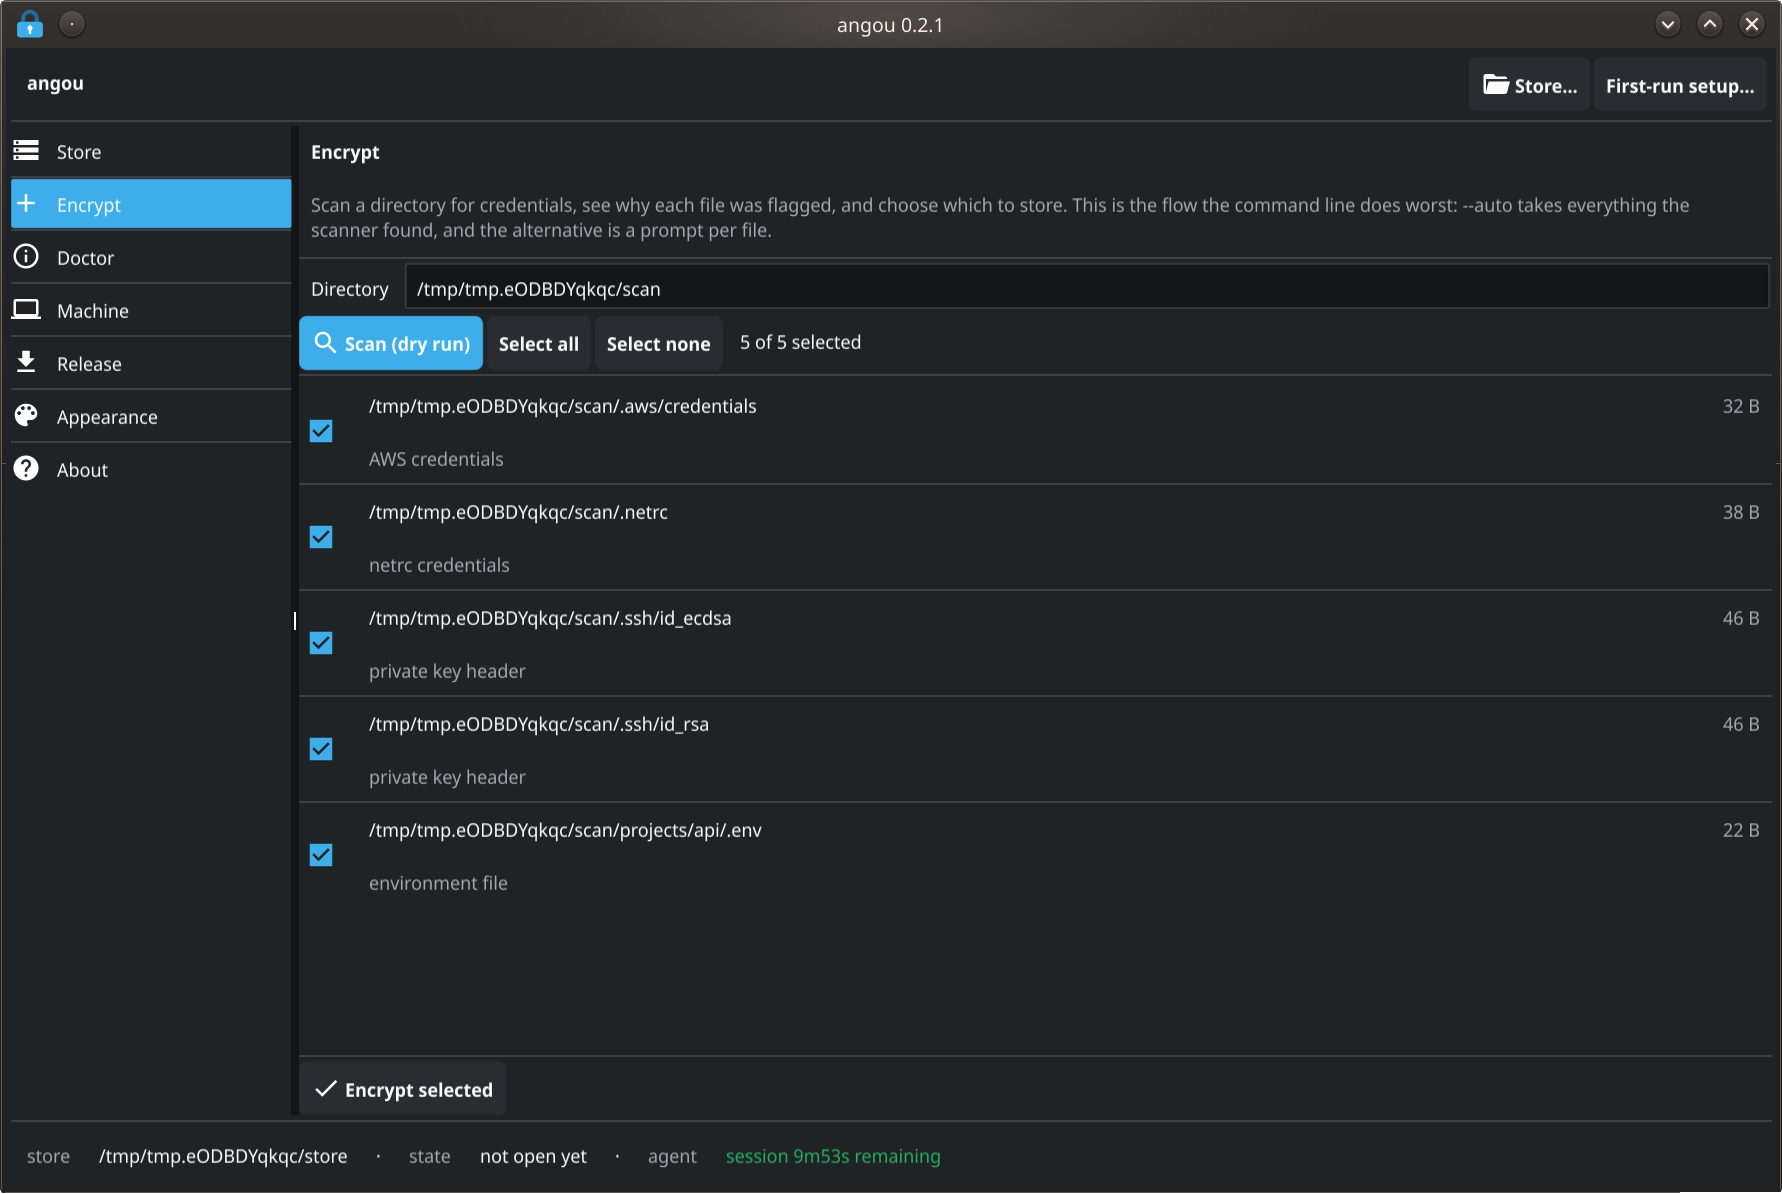
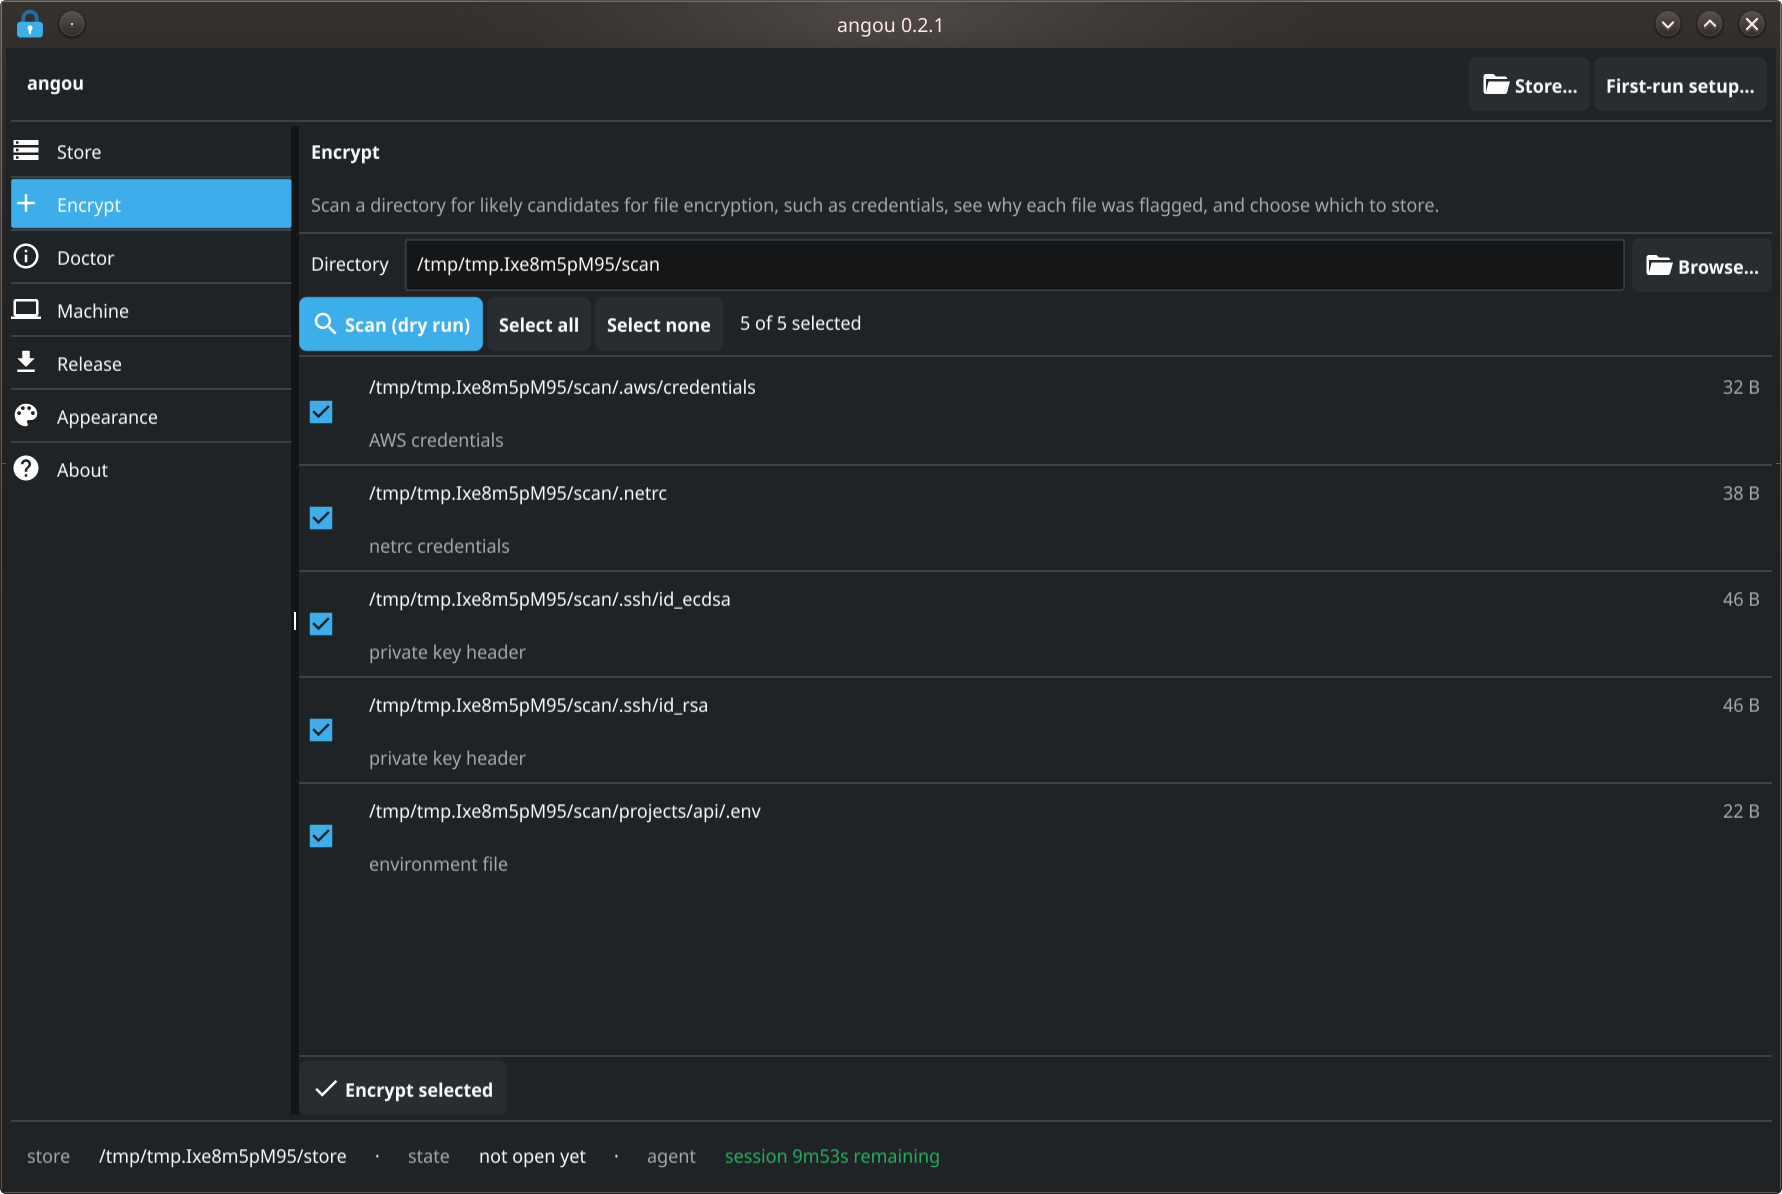
feat(gui): put a file chooser beside every path field
Every path in the window was typed by hand. Each field that takes one --
the scan directory, the file to encrypt, an extraction destination, a
clone destination, the store directory -- now has a Browse button that
opens Fyne's chooser at the path already in the field, or its parent, or
the home directory. The field stays editable: that is still the only way
to reach somewhere the chooser will not show.

Resize is called after Show, not before. Before Show the dialog has no
window, and in fyne 2.8.1 Resize asks it for a minimum size and
dereferences that nil window -- so the first version of this button
crashed the process on the one interaction it exists for. The regression
test drives the real widget under the test driver and was confirmed to
fail against the old ordering.

No operation is added: directory encryption remains the scan, and the
folder chooser only feeds it, so the two front ends stay level.

The Encrypt heading no longer explains what the command line does badly,
and the screenshots are recaptured for both changes.

diff --git a/internal/gui/dialogs.go b/internal/gui/dialogs.go
@@ -3,12 +3,15 @@ package gui
 import (
 	"fmt"
 	"os"
+	"path/filepath"
 
 	"fyne.io/fyne/v2"
 	"fyne.io/fyne/v2/canvas"
 	"fyne.io/fyne/v2/container"
 	"fyne.io/fyne/v2/dialog"
 	"fyne.io/fyne/v2/layout"
+	"fyne.io/fyne/v2/storage"
+	"fyne.io/fyne/v2/theme"
 	"fyne.io/fyne/v2/widget"
 
 	angoucontainer "github.com/ushineko/angou/internal/container"
@@ -256,7 +259,7 @@ func (u *ui) extractDialog(e StoreEntry) {
 	note.Importance = widget.LowImportance
 
 	u.pathDialog("Extract "+e.LogicalPath, "Extract",
-		container.NewVBox(widget.NewForm(widget.NewFormItem("Destination", dest)), note),
+		container.NewVBox(widget.NewForm(widget.NewFormItem("Destination", u.withBrowse(dest, true))), note),
 		func() {
 			u.withSession("Extract", func(s *core.Session) error {
 				written, err := s.Extract(e.LogicalPath, dest.Text)
@@ -305,7 +308,7 @@ func (u *ui) encryptFileDialog() {
 	binary := widget.NewCheck("Store raw OpenPGP packets instead of ASCII armor", nil)
 
 	u.pathDialog("Encrypt a file", "Encrypt", container.NewVBox(widget.NewForm(
-		widget.NewFormItem("File", src),
+		widget.NewFormItem("File", u.withBrowse(src, false)),
 		widget.NewFormItem("Store as", as),
 	), binary), func() {
 		u.withSession("Encrypt", func(s *core.Session) error {
@@ -326,7 +329,7 @@ func (u *ui) cloneDialog() {
 	noBinaries := widget.NewCheck("Leave the platform binaries behind", nil)
 
 	u.pathDialog("Clone the store", "Clone", container.NewVBox(
-		widget.NewForm(widget.NewFormItem("Destination", to)), noBinaries), func() {
+		widget.NewForm(widget.NewFormItem("Destination", u.withBrowse(to, true))), noBinaries), func() {
 		from := u.storeDir()
 		go func() {
 			done := u.busy("Copying the store…")
@@ -395,7 +398,7 @@ func (u *ui) chooseStore() {
 	}
 
 	u.pathDialog("Choose a store", "Use this store",
-		container.NewVBox(widget.NewForm(widget.NewFormItem("Directory", dir)), note, env),
+		container.NewVBox(widget.NewForm(widget.NewFormItem("Directory", u.withBrowse(dir, true))), note, env),
 		func() {
 			if !core.StoreExists(dir.Text) {
 				u.flash(dir.Text+" does not hold a store. Use first-run setup to create one.", StatusBad)
@@ -404,4 +407,75 @@ func (u *ui) chooseStore() {
 			u.setStoreDir(dir.Text)
 			u.flash("Now using the store at "+dir.Text, StatusGood)
 		})
+}
+
+// --- file chooser ----------------------------------------------------------
+
+// pickerStart is where a chooser should open: the path already in the field if
+// it names a directory, otherwise its parent, otherwise the home directory.
+// A field left empty, or holding something that no longer exists, must not
+// leave the chooser at whatever directory the process happens to be in.
+func pickerStart(text string) fyne.ListableURI {
+	candidates := []string{}
+	if p := core.ExpandPath(text); p != "" {
+		candidates = append(candidates, p, filepath.Dir(p))
+	}
+	if home, err := os.UserHomeDir(); err == nil {
+		candidates = append(candidates, home)
+	}
+	for _, c := range candidates {
+		if fi, err := os.Stat(c); err != nil || !fi.IsDir() {
+			continue
+		}
+		if lu, err := storage.ListerForURI(storage.NewFileURI(c)); err == nil {
+			return lu
+		}
+	}
+	return nil
+}
+
+// browseButton is the affordance beside a path field: it opens the platform
+// chooser and writes the chosen path back into the field. The field stays
+// editable — a path can still be typed or pasted, which is the only way to
+// reach somewhere the chooser will not show.
+//
+// `dir` picks a directory chooser rather than a file one.
+func (u *ui) browseButton(field *widget.Entry, dir bool) *widget.Button {
+	choose := func() {
+		if dir {
+			d := dialog.NewFolderOpen(func(lu fyne.ListableURI, err error) {
+				if err != nil || lu == nil {
+					return
+				}
+				field.SetText(lu.Path())
+			}, u.win)
+			d.SetLocation(pickerStart(field.Text))
+			// Resize only after Show. Before Show the dialog has no window,
+			// and Resize asks it for its minimum size — which in fyne 2.8.1
+			// dereferences that nil window and takes the process with it.
+			d.Show()
+			d.Resize(fyne.NewSize(760, 520))
+			return
+		}
+		d := dialog.NewFileOpen(func(rc fyne.URIReadCloser, err error) {
+			if err != nil || rc == nil {
+				return
+			}
+			// The chooser hands back an open handle; angou reads the file
+			// itself, by path, so close it immediately rather than holding a
+			// descriptor open for the life of the dialog.
+			path := rc.URI().Path()
+			_ = rc.Close()
+			field.SetText(path)
+		}, u.win)
+		d.SetLocation(pickerStart(field.Text))
+		d.Show()
+		d.Resize(fyne.NewSize(760, 520))
+	}
+	return widget.NewButtonWithIcon("Browse…", theme.FolderOpenIcon(), choose)
+}
+
+// withBrowse lays a path field out with its chooser button on the right.
+func (u *ui) withBrowse(field *widget.Entry, dir bool) fyne.CanvasObject {
+	return container.NewBorder(nil, nil, nil, u.browseButton(field, dir), field)
 }

diff --git a/internal/gui/browse_test.go b/internal/gui/browse_test.go
@@ -1,0 +1,39 @@
+package gui
+
+import (
+	"testing"
+
+	"fyne.io/fyne/v2/test"
+	"fyne.io/fyne/v2/widget"
+	"github.com/stretchr/testify/require"
+)
+
+// Tapping Browse… must open a chooser, not take the process with it.
+//
+// The first version of this button sized the dialog before showing it. In fyne
+// 2.8.1 that path asks a dialog with no window yet for its minimum size and
+// dereferences nil, so the crash was in the one interaction the button exists
+// for. This drives the real widget under the test driver, which needs no
+// display, so the regression cannot come back unnoticed.
+func TestBrowseButtonOpensAChooser(t *testing.T) {
+	app := test.NewApp()
+	defer app.Quit()
+
+	u := &ui{win: test.NewWindow(widget.NewLabel(""))}
+	defer u.win.Close()
+
+	for _, dir := range []bool{false, true} {
+		field := widget.NewEntry()
+		button := u.browseButton(field, dir)
+		require.NotPanics(t, func() { test.Tap(button) }, "directory chooser: %v", dir)
+	}
+}
+
+// A field holding a path that does not exist, or nothing at all, must still
+// give the chooser somewhere to start rather than leaving it wherever the
+// process happens to be.
+func TestPickerStartFallsBackToHome(t *testing.T) {
+	for _, text := range []string{"", "/nonexistent/path/for/a/test", "~"} {
+		require.NotNil(t, pickerStart(text), "no starting location for %q", text)
+	}
+}

diff --git a/internal/gui/views.go b/internal/gui/views.go
@@ -367,11 +367,10 @@ func (u *ui) buildEncrypt() fyne.CanvasObject {
 
 	top := container.NewVBox(
 		heading("Encrypt",
-			"Scan a directory for credentials, see why each file was flagged, and choose which to store. "+
-				"This is the flow the command line does worst: --auto takes everything the scanner found, "+
-				"and the alternative is a prompt per file."),
+			"Scan a directory for likely candidates for file encryption, such as credentials, "+
+				"see why each file was flagged, and choose which to store."),
 		container.NewBorder(nil, nil, widget.NewLabel("Directory"),
-			nil, dir),
+			nil, u.withBrowse(dir, true)),
 		container.NewHBox(scan, all, none, count),
 		widget.NewSeparator(),
 	)

diff --git a/validation-reports/2026-09-04-v0.2.2.md b/validation-reports/2026-09-04-v0.2.2.md
@@ -1,0 +1,94 @@
+# Validation report — angou v0.2.2
+
+**Date**: 2026-09-04
+**Spec**: [002](../specs/002-desktop-gui.md)
+**Scope**: a file chooser beside the GUI's path fields, the crash that shipped in the
+first version of it, and one heading reworded. No CLI, container format, key model, or
+store layout change.
+
+---
+
+## Summary
+
+Every path in the GUI was typed by hand: the directory to scan, the file to encrypt,
+where to extract, where to clone, which store to open. Each of those fields now carries a
+Browse button that opens Fyne's chooser, starting at whatever the field already holds, or
+its parent, or the home directory. The field stays editable, so a path the chooser will
+not show can still be typed or pasted.
+
+The first version of the button crashed the process. `dialog.FileDialog.Resize` was
+called before `Show`, and in Fyne 2.8.1 that path asks a dialog with no window yet for
+its minimum size and dereferences nil — so the one interaction the button exists for took
+the window down with it. It is fixed by showing first and resizing after, and pinned by a
+test that drives the real widget under Fyne's test driver.
+
+This adds no operation. Directory encryption is still the scan (`enc --all` on the
+command line, the Encrypt section in the window), which flags credential-shaped files
+rather than taking a tree wholesale; the folder chooser feeds that scan and does not
+change what it does. CLI/GUI parity is therefore unaffected.
+
+---
+
+## Phase 3 — Tests
+
+| Gate | Result |
+|---|---|
+| `make test` (unit, `-race`) | pass |
+| `make e2e` | pass |
+| `make lint` (`golangci-lint` v2.12.2) | 0 issues |
+| `gofmt` | clean |
+
+New coverage in `internal/gui/browse_test.go`: tapping Browse opens a chooser without
+panicking, for both the file and the directory variant, and `pickerStart` returns a
+starting location for an empty field, a path that does not exist, and a bare `~`. The
+first test was confirmed to fail against the pre-fix ordering before the fix was kept —
+a regression test that has never been seen to fail is a claim, not a check.
+
+Not run: `make e2e-container` (unchanged bootstrap path), `tools/regress.sh` (no CLI
+output changed).
+
+---
+
+## Phase 4 — Code quality
+
+The five call sites share one helper rather than each assembling an entry and a button:
+`withBrowse` lays the pair out, `browseButton` opens the chooser, `pickerStart` decides
+where it opens. No duplication introduced, nothing dead left behind.
+
+---
+
+## Phase 5 — Security review
+
+**Verdict**: PASS
+
+- **Dependency scan**: `govulncheck` (Go 1.25.12) — code affected by 0 vulnerabilities.
+  No dependency moved in this release.
+- **Untrusted input**: a chosen path is untrusted in exactly the way a typed one is, and
+  goes through the same core calls, which expand a leading `~`, refuse to create anything
+  under a bare-tilde component, and confine extraction beneath its destination. The
+  chooser adds no path that bypasses those.
+- **Descriptors**: the file chooser returns an open `URIReadCloser`. It is closed
+  immediately and only the path kept, rather than held open for the life of the dialog.
+- **Secrets**: no passphrase or store content reaches the new code, no logging added,
+  nothing committed. Screenshots are captured against a throwaway store under a
+  redirected `HOME`, so no real path or listing is in the images.
+
+---
+
+## Phase 5.5 — Release safety
+
+Rollback is `git revert` plus a rebuild. Additive and GUI-only: no store is written
+differently, so a 0.2.1 binary reads a 0.2.2 store and the reverse. Publishing raises the
+store's version floor to 0.2.2, which is the one effect not reversible from inside the
+tool — machines running older binaries are refused until they install from the store.
+
+---
+
+## Limitations
+
+- On Linux outside Flatpak, Fyne draws its own chooser rather than handing off to the
+  desktop's. It is themed by angou, not by KDE or GNOME, and shows Fyne's own hidden-file
+  toggle. Under Flatpak it uses the xdg portal instead.
+- No test clicks through a whole selection: the regression test asserts the chooser opens
+  and does not crash, not that choosing a file fills the field. That was verified by hand.
+- The GUI's overall exposure is unchanged: far less use than the CLI.

diff --git a/README.md b/README.md
@@ -11,7 +11,7 @@ with passwords in them.
 *Nothing about your keys or your data lives in this repository. The store stays where you
 put it.*
 
-**Version**: 0.2.1
+**Version**: 0.2.2
 
 > The specs are the design of record, including the alternatives that were rejected and
 > why: [`specs/001`](specs/001-angou-format-keying-and-store.md) for the format, key
@@ -658,7 +658,7 @@ below.
 
 ![The Store section: a sortable table of four stored files — demo/credentials, demo/id_ed25519, demo/prod.env and demo/work.ovpn — each with its size, POSIX mode, age, and the path it was encrypted from. A toolbar offers Encrypt file, Scan directory, Refresh, Reindex, Prune and Clone; the Decrypt, Extract, Rename and Remove buttons along the bottom are greyed out until a row is selected. The status bar reads: store, the directory; unlocked by an agent session; and the agent's remaining session time.](assets/screenshot-store.png)
 
-![The Encrypt section: a scan of a directory listing five candidates, each with the reason it was flagged — "AWS credentials" for .aws/credentials, "netrc credentials" for .netrc, "SSH private key" for both .ssh/id_ecdsa and .ssh/id_rsa, and "environment file" for projects/api/.env. All five are ticked, and the count reads "5 of 5 selected". A .env.example file in the same tree was not flagged. Scan is a dry run; Encrypt selected sits apart at the bottom.](assets/screenshot-encrypt.png)
+![The Encrypt section: a Directory field holding the scanned path, with a Browse button beside it that opens a folder chooser. Below it, five candidates, each with the reason it was flagged — "AWS credentials" for .aws/credentials, "netrc credentials" for .netrc, "private key header" for both .ssh/id_ecdsa and .ssh/id_rsa, and "environment file" for projects/api/.env. All five are ticked, and the count reads "5 of 5 selected". A .env.example file in the same tree was not flagged. Scan is a dry run; Encrypt selected sits apart at the bottom.](assets/screenshot-encrypt.png)
 
 ![The Doctor section: findings grouped by subject with a status marker on each row. Store shows the directory and a green tick for the store being present. Key bundle shows argon2id m=64 MiB t=24 p=4, with green ticks for parameters meeting the pinned floor and memory being sufficient. This machine shows an orange warning — "local key: absent — this machine asks for the recovery passphrase" — followed by "to change that: run `angou bootstrap`". Keyring is reachable, with its entry not applicable until the machine is bootstrapped. A superseded-key assertion field sits below the report.](assets/screenshot-doctor.png)
 
@@ -755,6 +755,16 @@ suite asserts what someone thought to assert; the diff asserts everything else.
   backstop, not as a plan.
 
 ## Changelog
+
+### 0.2.2
+
+- **The GUI's path fields have a file chooser.** Every field that takes a path — the
+  Encrypt scan directory, the file to encrypt, an extraction destination, a clone
+  destination, and the store directory — now has a Browse button beside it that opens
+  Fyne's chooser at the path already in the field, or its parent, or your home
+  directory. The field stays editable, which is still the only way to reach somewhere
+  the chooser will not show.
+- The Encrypt heading no longer explains what the command line does badly.
 
 ### 0.2.1
 
